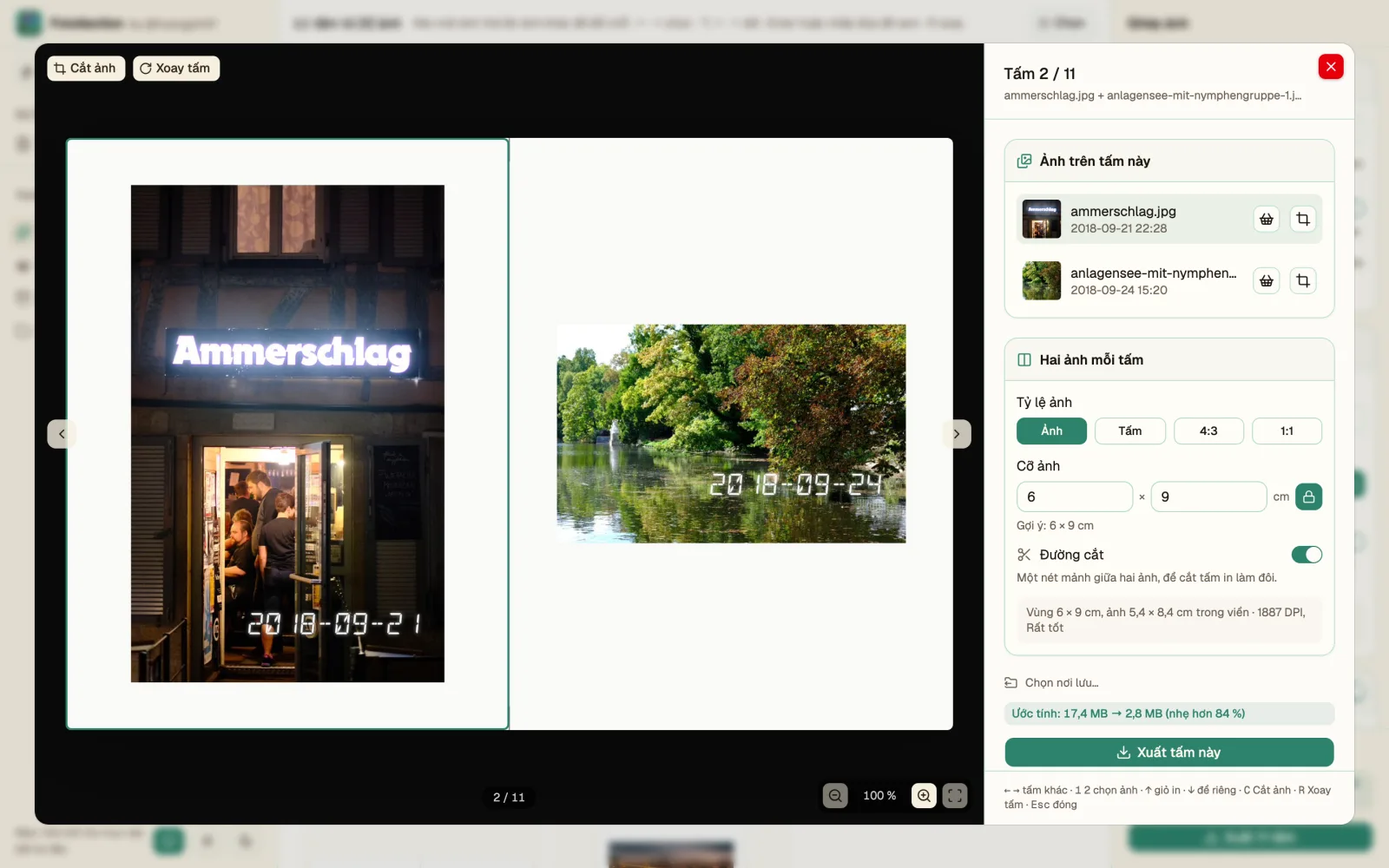
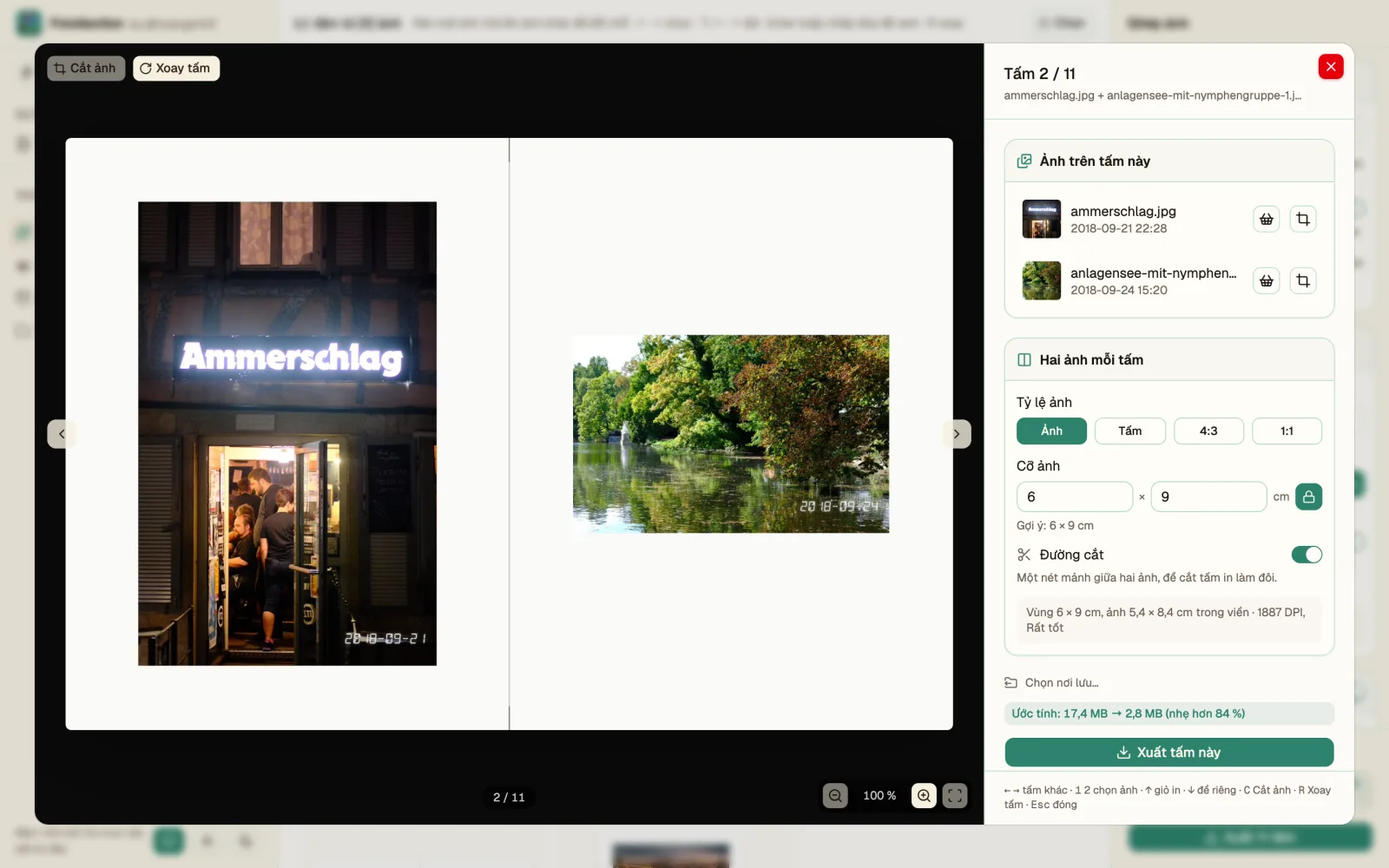
fix(collage): the cut line off keeps the white between photos; the sheet preview opens with no photo chosen; the stamp follows the print size [FR-035] [FR-004]
- Cut line off now only drops the line: each photo stays centred in its
  half (the owner saw the photos stuck together as a bug).
- The sheet preview shows the sheet as it prints; a click or 1/2 chooses
  a photo, a second click or Esc lets go.
- Stamp size is a share of the print's short edge (2.8 / 3.6 / 4.8 %),
  so 2.8 / 3.6 / 4.8 mm on 10 cm and more on larger prints; each photo
  of a collage sheet gets half the sheet's stamp.

diff --git a/ui/src/features/collage/sheet-preview-dialog.tsx b/ui/src/features/collage/sheet-preview-dialog.tsx
@@ -20,6 +20,7 @@ import { MOD } from '@/lib/platform'
 import { cn } from '@/lib/utils'
 import { CollageCellsCard } from './collage-cells-card'
 import { useCellGeometry } from './use-cell-geometry'
+import { useSheetInfo } from './use-sheet-info'
 import type { CollageApi } from './use-collage'
 
 type SheetPreviewDialogProps = {
@@ -53,7 +54,7 @@ export function SheetPreviewDialog({
   onClose,
 }: SheetPreviewDialogProps) {
   const { t } = useTranslation()
-  const { sheets, index, sheet, cellIndex, cell } = collage
+  const { sheets, index, sheet } = collage
   const key = sheet ? `${sheet.first}:${sheet.second}` : undefined
   const shownSrc = useShownSrc(key, sheet ? sheetUrl(sheet.first, sheet.second, revision) : '')
   const [stage, setStage] = useState<HTMLDivElement | null>(null)
@@ -61,7 +62,13 @@ export function SheetPreviewDialog({
   const zoom = useZoom(stage, `${key}:${cropping}`)
   const [sideBySide, setSideBySide] = useState(true)
   const contentRef = useRef<HTMLDivElement>(null)
-  const photo = sheet ? (cellIndex === 0 ? sheet.first : sheet.second) : null
+  // No photo is chosen until the user picks one, so the sheet shows as it prints.
+  const [picked, setPicked] = useState<{ key: string | undefined; cell: 0 | 1 } | null>(null)
+  const chosen = picked && picked.key === key ? picked.cell : null
+  const choose = (cell: 0 | 1 | null) => setPicked(cell === null ? null : { key, cell })
+  const photo = sheet && chosen !== null ? (chosen === 0 ? sheet.first : sheet.second) : null
+  const info = useSheetInfo(open ? sheet : undefined, revision)
+  const cell = info?.cells.find((c) => c.id === photo) ?? info?.cells[0]
   const geometry = useCellGeometry(cropping ? photo : null, sheet, revision)
   const summary = (id: PhotoId | null) => (id === null ? undefined : photos.find((p) => p.id === id))
 
@@ -72,7 +79,7 @@ export function SheetPreviewDialog({
   // ↑ to the print basket, ↓ set aside, for the chosen photo (FR-050); the choice moves on
   // to the next photo of the sheets, as in the photo preview.
   const nextPhoto = () => {
-    if (cellIndex === 0 && sheet?.second != null) collage.select(index, 1)
+    if (chosen === 0 && sheet?.second != null) choose(1)
     else go(1)
   }
   const send = (queue: Queue) => {
@@ -80,6 +87,7 @@ export function SheetPreviewDialog({
   }
   const go = (delta: number) => {
     setCropping(false)
+    choose(null)
     collage.select(Math.min(sheets.length - 1, Math.max(0, index + delta)), 0)
   }
   const onKeyDown = (event: KeyboardEvent) => {
@@ -90,7 +98,7 @@ export function SheetPreviewDialog({
     else if (event.key === 'ArrowLeft') go(-1)
     else if (event.key === 'ArrowUp') send('print')
     else if (event.key === 'ArrowDown') send('aside')
-    else if (key === '1' || key === '2') collage.select(index, key === '1' ? 0 : 1)
+    else if (key === '1' || key === '2') choose(key === '1' ? 0 : 1)
     else if (key === 'c' && photo !== null) setCropping(true)
     else if (key === 'r' && sheet && !event.metaKey && !event.ctrlKey) collage.turn(sheet.first)
     else return
@@ -106,10 +114,13 @@ export function SheetPreviewDialog({
       contentRef={contentRef}
       onKeyDown={onKeyDown}
       onEscapeKeyDown={(e) => {
-        // Esc leaves the crop editor first, then closes the preview.
+        // Esc leaves the crop editor first, then lets go of the chosen photo, then closes.
         if (cropping) {
           e.preventDefault()
           setCropping(false)
+        } else if (chosen !== null) {
+          e.preventDefault()
+          choose(null)
         }
       }}
       stageRef={setStage}
@@ -164,9 +175,13 @@ export function SheetPreviewDialog({
                         type="button"
                         disabled={id === null}
                         aria-label={summary(id)?.fileName ?? t('collage.emptyCell')}
-                        className={cn('flex-1 rounded-sm', cellIndex === c && id !== null && 'ring-2 ring-primary ring-inset')}
-                        onClick={() => collage.select(index, c)}
-                        onDoubleClick={() => id !== null && setCropping(true)}
+                        className={cn('flex-1 rounded-sm', chosen === c && id !== null && 'ring-2 ring-primary ring-inset')}
+                        onClick={() => choose(chosen === c ? null : c)}
+                        onDoubleClick={() => {
+                          if (id === null) return
+                          choose(c)
+                          setCropping(true)
+                        }}
                       />
                     ))}
                   </div>
@@ -179,7 +194,13 @@ export function SheetPreviewDialog({
               </div>
             )}
             <div className="absolute top-3 left-3 flex gap-1.5">
-              <Button variant="secondary" size="sm" disabled={photo === null} onClick={() => setCropping(true)}>
+              <Button
+                variant="secondary"
+                size="sm"
+                disabled={photo === null}
+                data-hint={photo === null ? t('collage.pickToCrop') : undefined}
+                onClick={() => setCropping(true)}
+              >
                 <Crop data-icon="inline-start" /> {t('viewer.crop')}
               </Button>
               <Button variant="secondary" size="sm" disabled={!sheet} onClick={() => sheet && collage.turn(sheet.first)}>
@@ -231,11 +252,11 @@ export function SheetPreviewDialog({
           return (
             <div
               key={c}
-              className={cn('flex items-center gap-2.5 rounded-md p-1.5', cellIndex === c && p && 'bg-primary/10')}
+              className={cn('flex items-center gap-2.5 rounded-md p-1.5', chosen === c && p && 'bg-primary/10')}
             >
               {p ? (
                 <>
-                  <button type="button" className="shrink-0" onClick={() => collage.select(index, c)} aria-label={p.fileName}>
+                  <button type="button" className="shrink-0" onClick={() => choose(chosen === c ? null : c)} aria-label={p.fileName}>
                     <img src={thumbUrl(p.id, 0, generation)} alt="" className="size-10 rounded object-cover" />
                   </button>
                   <div className="min-w-0 flex-1">
@@ -258,7 +279,7 @@ export function SheetPreviewDialog({
                     aria-label={t('viewer.crop')}
                     data-hint={t('viewer.crop')}
                     onClick={() => {
-                      collage.select(index, c)
+                      choose(c)
                       setCropping(true)
                     }}
                   >

diff --git a/crates/core/src/sheet.rs b/crates/core/src/sheet.rs
@@ -237,9 +237,8 @@ pub fn photo_area(
     }
 }
 
-/// Lays out a sheet for one or two photos (upright pixel sizes). With the cut line, each
-/// photo is centred in its cell; without it, the two meet at the middle, like a half-frame
-/// strip.
+/// Lays out a sheet for one or two photos (upright pixel sizes): each photo centred in its
+/// half, so the white between them stays with or without the cut line.
 pub fn layout(
     print: PrintSize,
     photos: [Option<(u32, u32)>; 2],
@@ -249,8 +248,6 @@ pub fn layout(
     let first = photos[0].or(photos[1]).unwrap_or((3, 2));
     let side = side_by_side(first, turned);
     let (width, height, rects) = cells(print, side);
-    // Without the cut line, two photos meet in the middle; a lone photo stays centred.
-    let together = !settings.cut_line && photos.iter().all(Option::is_some);
     let place = |i: usize, photo: (u32, u32)| {
         let cell = rects[i];
         let area = photo_area((cell.width, cell.height), photo, print, settings);
@@ -260,14 +257,12 @@ pub fn layout(
             cell.x + (cell.width - aw) / 2.0,
             cell.y + (cell.height - ah) / 2.0,
         );
-        let (x, y) = match (together, side, i) {
-            (false, _, _) => centred,
-            (true, true, 0) => (cell.x + cell.width - aw, centred.1),
-            (true, true, _) => (cell.x, centred.1),
-            (true, false, 0) => (centred.0, cell.y + cell.height - ah),
-            (true, false, _) => (centred.0, cell.y),
-        };
-        CellLayout { cell, area, x, y }
+        CellLayout {
+            cell,
+            area,
+            x: centred.0,
+            y: centred.1,
+        }
     };
     SheetLayout {
         width,
@@ -449,7 +444,13 @@ pub fn render_sheet(
             continue;
         };
         let photo_long = (cell.area.0.max(cell.area.1) as f32 - inset).max(1.0);
-        let p = input(source, cell, own, Some(px(photo_long)));
+        let mut p = input(source, cell, own, Some(px(photo_long)));
+        // Two stamps share the sheet: each is half the size it would have on the sheet
+        // printed alone, whatever the photo's own area (FR-004).
+        if let Some(stamp) = p.stamp.as_mut() {
+            stamp.font_px *= stamp_scale(print, cell.area);
+            stamp.margin_px /= 2.0;
+        }
         let image = render(source.image, &p)?;
         // Centred on the area's centre, so pixel rounding never shifts it.
         let cx = (cell.x + cell.area.0 as f32 / 2.0) * density - image.width as f32 / 2.0;
@@ -466,6 +467,12 @@ pub fn render_sheet(
         draw_cut_line(&mut canvas, &sheet, density);
     }
     Ok(canvas)
+}
+
+/// What turns a stamp sized for a photo's own area into half the sheet's stamp (FR-004).
+#[allow(clippy::cast_precision_loss)]
+fn stamp_scale(print: PrintSize, area: (u32, u32)) -> f32 {
+    print.short_mm as f32 / 2.0 / area.0.min(area.1).max(1) as f32
 }
 
 /// A thin light line between the cells, with darker ticks at the sheet's edges.
@@ -637,22 +644,27 @@ mod tests {
     }
 
     #[test]
-    fn fr_035_without_the_cut_line_the_photos_meet_in_the_middle() {
+    fn fr_035_without_the_cut_line_the_photos_keep_their_white() {
         let mut s = CollageSettings::default();
         let photos = [Some((4000, 6000)), Some((4000, 6000))];
-        let centred = layout(print(), photos, false, &s);
-        let [Some(a), Some(b)] = centred.cells else {
+        let with_line = layout(print(), photos, false, &s);
+        s.cut_line = false;
+        let without = layout(print(), photos, false, &s);
+        // The same places: the line goes, the 15 mm of white between the photos stays.
+        assert_eq!(with_line, without);
+        let [Some(a), Some(b)] = without.cells else {
             panic!("two cells");
         };
         assert!((a.x - 7.5).abs() < 1e-3 && (b.x - 82.5).abs() < 1e-3);
-        s.cut_line = false;
-        let together = layout(print(), photos, false, &s);
-        let [Some(a), Some(b)] = together.cells else {
-            panic!("two cells");
-        };
-        assert!((a.x + 60.0 - 75.0).abs() < 1e-3, "{}", a.x);
-        assert!((b.x - 75.0).abs() < 1e-3);
-        assert!((a.y - 5.0).abs() < 1e-3);
+        assert!((b.x - (a.x + 60.0) - 15.0).abs() < 1e-3);
+    }
+
+    #[test]
+    fn fr_004_each_stamp_on_a_sheet_is_half_the_sheets_own() {
+        // 10 × 15 sheet, a 60 × 90 photo area: medium is 3.6 % of 100 mm alone, 1.8 mm here.
+        let scale = stamp_scale(print(), (60, 90));
+        let mm = crate::settings::StampSize::Medium.of_short_edge() * 60.0 * scale;
+        assert!((mm - 1.8).abs() < 1e-4, "{mm}");
     }
 
     #[test]

diff --git a/crates/core/src/plan.rs b/crates/core/src/plan.rs
@@ -396,11 +396,14 @@ fn stamp_spec(input: &PlanInput<'_>, px_per_mm: f32) -> Option<StampSpec> {
     if text.is_empty() && caption.is_empty() {
         return None;
     }
+    // The size follows the print it is on (FR-004).
+    #[allow(clippy::cast_precision_loss)]
+    let short_mm = input.print.short_mm as f32;
     Some(StampSpec {
         text,
         color: settings.stamp.color.rgb(),
         corner: settings.stamp.corner,
-        font_px: settings.stamp.size.mm() * px_per_mm,
+        font_px: settings.stamp.size.of_short_edge() * short_mm * px_per_mm,
         margin_px: (SAFE_AREA_MM + STAMP_INSET_MM) * px_per_mm,
         caption: (!caption.is_empty()).then(|| caption.to_owned()),
     })
@@ -838,7 +841,7 @@ mod tests {
             font(crate::settings::StampSize::Medium),
             font(crate::settings::StampSize::Large),
         );
-        // 6000 px over 150 mm: 40 px a millimetre.
+        // 6000 px over 150 mm: 40 px a millimetre; medium is 3.6 % of the 100 mm short edge.
         assert!((medium - 3.6 * 40.0).abs() < 0.5, "{medium}");
         assert!(small < medium && medium < large);
         assert!((large / medium - 4.8 / 3.6).abs() < 1e-3);

diff --git a/crates/core/src/settings.rs b/crates/core/src/settings.rs
@@ -218,12 +218,13 @@ pub enum StampSize {
 }
 
 impl StampSize {
-    /// The text's em height on the print, in millimetres.
-    pub fn mm(self) -> f32 {
+    /// The text's em height as a share of the print's short edge: 2.8, 3.6 or 4.8 mm on a
+    /// 10 cm print, more on a larger one, half on each photo of a collage sheet (FR-004).
+    pub fn of_short_edge(self) -> f32 {
         match self {
-            Self::Small => 2.8,
-            Self::Medium => 3.6,
-            Self::Large => 4.8,
+            Self::Small => 0.028,
+            Self::Medium => 0.036,
+            Self::Large => 0.048,
         }
     }
 }

diff --git a/docs/PRD.md b/docs/PRD.md
@@ -127,7 +127,7 @@ The phase assignment for each requirement lives in [ROADMAP.md](ROADMAP.md), and
 
 **P0.** Render the capture date onto the photo.
 
-- Configurable format (presets plus a custom pattern), colour, position (each of the 4 corners, with a margin) and **size: Small, Medium or Large** (2.8, 3.6 or 4.8 mm text on the print, Medium by default; v0.9.0), the same choice in every mode ([FR-048](#fr-048--simple-collage-and-professional-modes)) and per photo ([FR-044](#fr-044--per-photo-overrides)).
+- Configurable format (presets plus a custom pattern), colour, position (each of the 4 corners, with a margin) and **size: Small, Medium or Large** (2.8, 3.6 or 4.8 % of the print's short edge, so 2.8, 3.6 or 4.8 mm on a 10 cm print and more on a larger one; on a collage sheet each photo's stamp is half the sheet's, as two share it; Medium by default; v0.9.0), the same choice in every mode ([FR-048](#fr-048--simple-collage-and-professional-modes)) and per photo ([FR-044](#fr-044--per-photo-overrides)).
 - **One font, like a film camera's imprint:** the text inside the photo is always set in the bundled **DSEG14 Classic Italic** (OFL 1.1), a slanted 14-segment LCD face, in plain capitals without accents ("Budaörs" → "BUDAORS"). It has the soft glow the imprint's LEDs left on film and a faint shadow for bright skies ([FR-033](#fr-033--retro-film-date-stamp-and-stamp-presets)). User fonts ([FR-042](#fr-042--custom-fonts)) apply to the info frame only.
 - **Two lines:** the date, with the place on the same line when switched on (`'25 09 21  DEBRECEN`, [FR-005](#fr-005--location-stamp-offline)), and a caption line of the user's own text below it ([FR-036](#fr-036--custom-captions)). At the bottom, the caption row is always kept free, so the date sits a little higher and does not move when a caption is added; a caption longer than the photo is set smaller to fit.
 - Rendered with anti-aliasing at output resolution and placed inside the final crop area, so the stamp is never cropped away.
@@ -381,10 +381,10 @@ Put several photos on one print to save cost. **P1 (v0.9.0) for 2-up**, the Coll
 - **Photo area in a cell.** A fixed white margin stays round the photo, 5 mm a side by default. The app suggests the largest size at the chosen ratio that fits inside it, rounded down to the millimetre: a 2:3 photo in a 7.5×10 cell gets **6×9 cm**. The ratio is the photo's own by default, or the sheet's (2:3 on 10×15), 4:3 or 1:1. The user may type another size; with the ratio locked, typing one edge computes the other. Sizes are clamped to the cell, in Rust. The area is centred, and the rest of the cell is white.
 - **Crop.** Each photo is cropped to its area with its own crop ([FR-006](#fr-006--crop-to-print-ratio)), editable in the crop editor at the area's ratio.
 - **Border.** The 3 mm border ([FR-067](#fr-067--3-mm-border-on-every-print)) cuts into the photo area, 3 mm a side: 6×9 shows 5.4×8.4 cm of photo. The sheet and cells keep their size.
-- **Cut line.** On by default: a thin light-grey line between the cells, with short ticks at the sheet's edges, to cut the print in two after printing. Off, the two photos stay together as one half-frame print.
+- **Cut line.** On by default: a thin light-grey line between the cells, with short ticks at the sheet's edges, to cut the print in two after printing. Off, the line goes and the photos keep their places and the white between them: the print stays one half-frame sheet. A sheet with one photo has no line.
 - **Pairing.** Photos are paired in order (the print basket's, or the view's): 1 + 2, 3 + 4…; an odd last photo leaves its other cell white and gets no cut line. The user reorders by dragging a photo onto another cell; photos placed by the user come first, and a photo added later joins at the end. A new order starts each sheet turned to suit its first photo.
 - **Choosing the photos.** Select mode and the print basket work as in the gallery ([FR-050](#fr-050--print-basket)): tick photos, then the bar puts them in the basket, sets them aside or brings them back; in the sheet preview ↑ and ↓ do it for the chosen photo. The order and the turned sheets are saved in the project (schema v9); each change is one undo step.
-- **Preview.** A sheet opens like a photo from the gallery (double-click, Enter or Space) in the photo preview's frame: the sheet large with zoom, ← → through the sheets, each photo cropped there for its place ([FR-006](#fr-006--crop-to-print-ratio)), the sheet turned, and **Export this sheet**, as [FR-055](#fr-055--export-from-the-preview) does for a photo.
+- **Preview.** A sheet opens like a photo from the gallery (double-click, Enter or Space) in the photo preview's frame, with no photo chosen, so it shows exactly as it prints: the sheet large with zoom, ← → through the sheets, a click (or 1, 2) to choose a photo and again (or Esc) to let go, each photo cropped there for its place ([FR-006](#fr-006--crop-to-print-ratio)), the sheet turned, and **Export this sheet**, as [FR-055](#fr-055--export-from-the-preview) does for a photo.
 - **Sheet size.** Any built-in or custom size; Original is not offered, since a sheet needs a fixed size (a sheet kept on Original prints at 10 × 15, and the panel says so).
 - **Advice.** The panel shows the suggested size, the photo left inside the border and the print quality ([FR-026](#fr-026--resolution-warning)), for example "6 × 9 cm · 2:3 · with border 5.4 × 8.4 cm".
 - **Export.** One file per sheet, named `<first>+<second>.jpg` in the first photo's date folder, never overwriting ([FR-009](#fr-009--export-by-date)); EXIF from the first photo, without GPS ([FR-010](#fr-010--metadata-privacy-on-export)). Two photos in one colour space keep its profile; two in different spaces are both converted to sRGB ([FR-027](#fr-027--srgb-conversion-for-labs)). Half as many sheets are exported at once as photos, as each holds two decoded photos ([NFR-004](#nfr-004--memory-ceiling)). The sheet's pixel density is the lower of the two cells' own, so no photo is enlarged ([ADR-0032](adr/0032-collage-sheets-from-two-cell-plans.md)).

diff --git a/docs/USER_GUIDE.vi.md b/docs/USER_GUIDE.vi.md
@@ -196,7 +196,7 @@ Ngày ở góc ảnh in, như máy ảnh phim, lấy theo lúc chụp ([FR-004](
    - **định dạng**: `2026-07-14`, `14.07.2026` hoặc `'26 07 14`, kiểu máy ảnh phim;
    - **góc**: *Góc dưới phải*, *Góc dưới trái*, *Góc trên phải* hoặc *Góc trên trái*;
    - **màu**: **Trắng** hoặc **Cam retro**;
-   - **cỡ**: **Nhỏ**, **Vừa** hoặc **To** (ba cỡ như nhau ở mọi chế độ).
+   - **cỡ**: **Nhỏ**, **Vừa** hoặc **To**, như nhau ở mọi chế độ. Cỡ chữ theo khổ in: khổ lớn thì chữ lớn hơn, và trên tấm ghép mỗi dấu ngày bằng nửa dấu của cả tấm, vì hai ảnh dùng chung tấm.
 3. **Địa điểm cùng dòng ngày** thêm tên thị trấn nơi chụp, lấy từ GPS của ảnh, không cần mạng: dạng **Thành phố**, **+ mã nước** hoặc **+ tên nước**. Ảnh không có GPS có thể đặt nơi chụp bằng tay (chương 10).
 4. **Dòng chữ dưới ngày**: một dòng ngắn chạy ngang ảnh, tối đa 80 ký tự, in bằng chữ hoa không dấu (ví dụ *KY NIEM BUDAPEST*).
 
@@ -389,12 +389,13 @@ Cùng ô đó hiện **cache**: ảnh nhỏ và kết quả phân tích ảnh đ
 4. **Hai ảnh mỗi tấm**:
    - **Tỷ lệ ảnh**: tỷ lệ gốc của từng ảnh (**Ảnh**), tỷ lệ của tấm (**Tấm**, 2:3 với 10 × 15), **4:3** hoặc **1:1**. Phần còn lại của nửa tấm để trắng.
    - **Cỡ ảnh**: app gợi ý cỡ lớn nhất còn chừa 5 mm trắng quanh ảnh, ví dụ 6 × 9 cm cho ảnh 2:3 trong nửa tấm 7,5 × 10. Bạn có thể gõ cỡ khác; khi **khoá** tỷ lệ, nhập một cạnh thì cạnh kia tự tính. **Dùng gợi ý** để quay lại.
-   - **Đường cắt**: một nét mảnh giữa hai ảnh, để cắt tấm in làm đôi. Tắt đi thì hai ảnh nằm liền nhau ở giữa, như ảnh half-frame.
+   - **Đường cắt**: một nét mảnh giữa hai ảnh, để cắt tấm in làm đôi. Tắt đi thì không có nét cắt, và hai ảnh vẫn giữ khoảng trắng giữa chúng.
    - Dòng ghi chú bên dưới cho biết cỡ ảnh, phần còn lại trong **viền 3 mm** (chương 5) và độ nét.
 5. **Đổi thứ tự:** kéo một ảnh thả lên ảnh khác để đổi chỗ, hoặc thả vào nửa tấm trống để đưa nó xuống cuối. **← →** chọn ảnh, **⌥/Alt ← →** dời ảnh đi một chỗ. Đổi thứ tự thì mỗi tấm quay về hướng hợp với ảnh đầu của nó, và ảnh thêm vào sau sẽ nằm ở cuối.
 6. **Chọn ảnh để in**, như trong gallery (chương 4): **Chọn** để tích ảnh bằng một cú nhấp (**Cmd/Ctrl+A** chọn tất cả, **Enter** tích ảnh đang chọn), rồi thanh công cụ đưa chúng vào **Giỏ in**, để riêng hoặc đưa về gallery. Ảnh trong giỏ có biểu tượng giỏ. Chọn **Giỏ in** ở thanh bên để chỉ ghép những ảnh đó.
 7. **Xem trước:** nhấp đúp vào một tấm, hoặc nhấn **Enter** hay **Space**, để mở tấm cỡ lớn trong cửa sổ xem trước, như mở ảnh từ gallery. Ở đó:
-   - **← →** sang các tấm khác, **1** và **2** chọn ảnh, **↑** cho ảnh vào giỏ in và **↓** để riêng (hoặc nút giỏ cạnh ảnh), các nút phóng to hoặc **Cmd/Ctrl + / −** để phóng;
+   - tấm mở ra không chọn ảnh nào, đúng như khi in. Nhấp vào một ảnh (hoặc **1**, **2**) để chọn, nhấp lần nữa (hoặc **Esc**) để bỏ chọn;
+   - **← →** sang các tấm khác; khi đã chọn ảnh, **↑** cho ảnh vào giỏ in và **↓** để riêng (hoặc nút giỏ cạnh ảnh), các nút phóng to hoặc **Cmd/Ctrl + / −** để phóng;
    - **Cắt ảnh** (hoặc **C**, hoặc nút cắt cạnh mỗi ảnh) cắt ảnh đang chọn cho vị trí của nó trên tấm;
    - **Xoay tấm** (**R**) xoay tấm sang hướng kia;
    - bảng bên phải liệt kê hai ảnh, có cùng thẻ *Hai ảnh mỗi tấm*, và **Xuất tấm này** lưu riêng tấm đó.

diff --git a/docs/USER_GUIDE.md b/docs/USER_GUIDE.md
@@ -198,7 +198,7 @@ A date in the corner of the print, like a film camera's, taken from when the pho
    - the **format**: `2026-07-14`, `14.07.2026` or `'26 07 14`, the film-camera style;
    - the **corner**: *Bottom right*, *Bottom left*, *Top right* or *Top left*;
    - the **colour**: **White** or **Retro orange**;
-   - the **size**: **Small**, **Medium** or **Large** (the same three in every mode).
+   - the **size**: **Small**, **Medium** or **Large**, the same three in every mode. The size follows the print: larger on a larger print, and on a collage sheet each photo's stamp is half the sheet's, as two share it.
 3. **Place on the date line** adds the town where the photo was taken, from its GPS, offline: as **City**, **City, HU** (with the country code) or **City, country**. A photo without GPS can get a place by hand (chapter 10).
 4. **Line under the date**: a short text across the photo, up to 80 characters, printed in capitals without accents (for example *KY NIEM BUDAPEST*).
 
@@ -391,12 +391,13 @@ A photo kept in Simple mode is in the print basket in Pro too, so you can switch
 4. **Two photos per sheet**:
    - **Photo ratio**: each photo's own (**Photo**), the sheet's (**Sheet**, 2:3 on a 10 × 15), **4:3** or **1:1**. The rest of the half stays white.
    - **Photo size**: the app suggests the largest size that leaves 5 mm of white round the photo, for example 6 × 9 cm for a 2:3 photo in a 7.5 × 10 half. Type another size if you like; with the **lock** on, one edge gives the other. **Use the suggestion** goes back.
-   - **Cut line**: a thin line between the photos, to cut the print in two. Off, the two photos meet in the middle, like a half-frame print.
+   - **Cut line**: a thin line between the photos, to cut the print in two. Off, there is no line, and the photos keep the white between them.
    - The note under them gives the photo's size, the part left inside the **3 mm border** (chapter 5) and its sharpness.
 5. **Reorder:** drag a photo onto another photo to swap them, or onto an empty half to send it to the end. **← →** choose a photo, **⌥/Alt ← →** move it one place. Reordering starts every sheet the way its first photo suits, and a photo added later joins at the end.
 6. **Choose the photos to print**, as in the gallery (chapter 4): **Select** ticks photos with a click (**Cmd/Ctrl+A** all, **Enter** the chosen one), and the bar puts them in the **Print basket**, sets them aside or brings them back. Photos in the basket carry its badge. Choose **Print basket** in the sidebar to make sheets of those photos only.
 7. **Preview:** double-click a sheet, or press **Enter** or **Space**, to open it large in the preview, as a photo opens from the gallery. There:
-   - **← →** go to the other sheets, **1** and **2** choose a photo, **↑** puts it in the print basket and **↓** sets it aside (or the basket button next to it), and the zoom buttons or **Cmd/Ctrl + / −** zoom in;
+   - the sheet opens with no photo chosen, exactly as it prints. Click a photo (or **1**, **2**) to choose it, and click it again (or **Esc**) to let go;
+   - **← →** go to the other sheets; with a photo chosen, **↑** puts it in the print basket and **↓** sets it aside (or the basket button next to it), and the zoom buttons or **Cmd/Ctrl + / −** zoom in;
    - **Crop** (or **C**, or the crop button next to a photo) crops the chosen photo for its place on the sheet;
    - **Turn the sheet** (**R**) turns it the other way;
    - the panel lists the two photos, holds the same *Two photos per sheet* card, and **Export this sheet** saves this one sheet.

diff --git a/CHANGELOG.md b/CHANGELOG.md
@@ -22,7 +22,7 @@ The format is based on [Keep a Changelog](https://keepachangelog.com/en/1.1.0/),
 - **Collage mode**, inspired by half-frame film cameras: two photos on one print, so a 10 × 15 holds two 10 × 7.5 photos and a set costs half as much. Photos pair in order and each sheet shows as it will print; drag a photo onto another to swap them, turn a sheet, crop each photo for its place, and open a sheet like a photo for a large preview with zoom, crop and Export this sheet. Choose the photo ratio, take the suggested size (6 × 9 cm for a 2:3 photo, with 5 mm of white round it) or type your own with the ratio locked, and switch the cut line on to cut the print in two, or off for a half-frame strip. Select mode and the print basket work as in the gallery, and ↑ / ↓ in a sheet's preview. Export writes one file per sheet.
 - **Simple mode:** one photo at a time, as it will print. **↑ Keep** puts it in the print basket, **↓ Drop** sets it aside, and the next photo comes at once; two large buttons do the same with the mouse. The panel keeps only the print size, the 3 mm border, the date stamp and Export, which sends the basket.
 - **3 mm border on every print:** the *3 mm border* switch moves to the print-size card and works with or without the info frame. Without a frame, a white border 3 mm wide runs round the photo; with Fit whole photo, the whole photo now fits inside the size you chose instead of making the print larger. The print always keeps the exact kiosk size. A border you had in Crop to fill stays on.
-- **Date stamp size:** Small, Medium or Large, in every mode and for one photo in the preview. Stamps you had stay Medium.
+- **Date stamp size:** Small, Medium or Large, in every mode and for one photo in the preview, sized to the print: larger on a larger print, and half on each photo of a collage sheet. Stamps you had stay Medium.
 - **Website:** a Manual page, in English and Vietnamese, with screenshots of the real app, in 20 chapters that follow the way you work: getting started, stars and filters, best shot, the print basket, print size, crop and straighten, zoom, the date stamp, the info frame, dates and places, camera clocks, export, projects and undo, RAW, Open with, shooting with a camera, updates, Simple mode, Collage mode, and every shortcut. The chapter list opens from a round button bottom left.
 - **Website:** a "Three modes" section on the landing page with Collage and Simple, marked as coming in v0.9.0; every screenshot taken again with the mode switch in the sidebar.
 - **Website:** the print-basket and best-shot screenshots show a cat photographed by the author on a Lumix GX9, with a softer, a shaken and a darker copy beside it for best shot.
